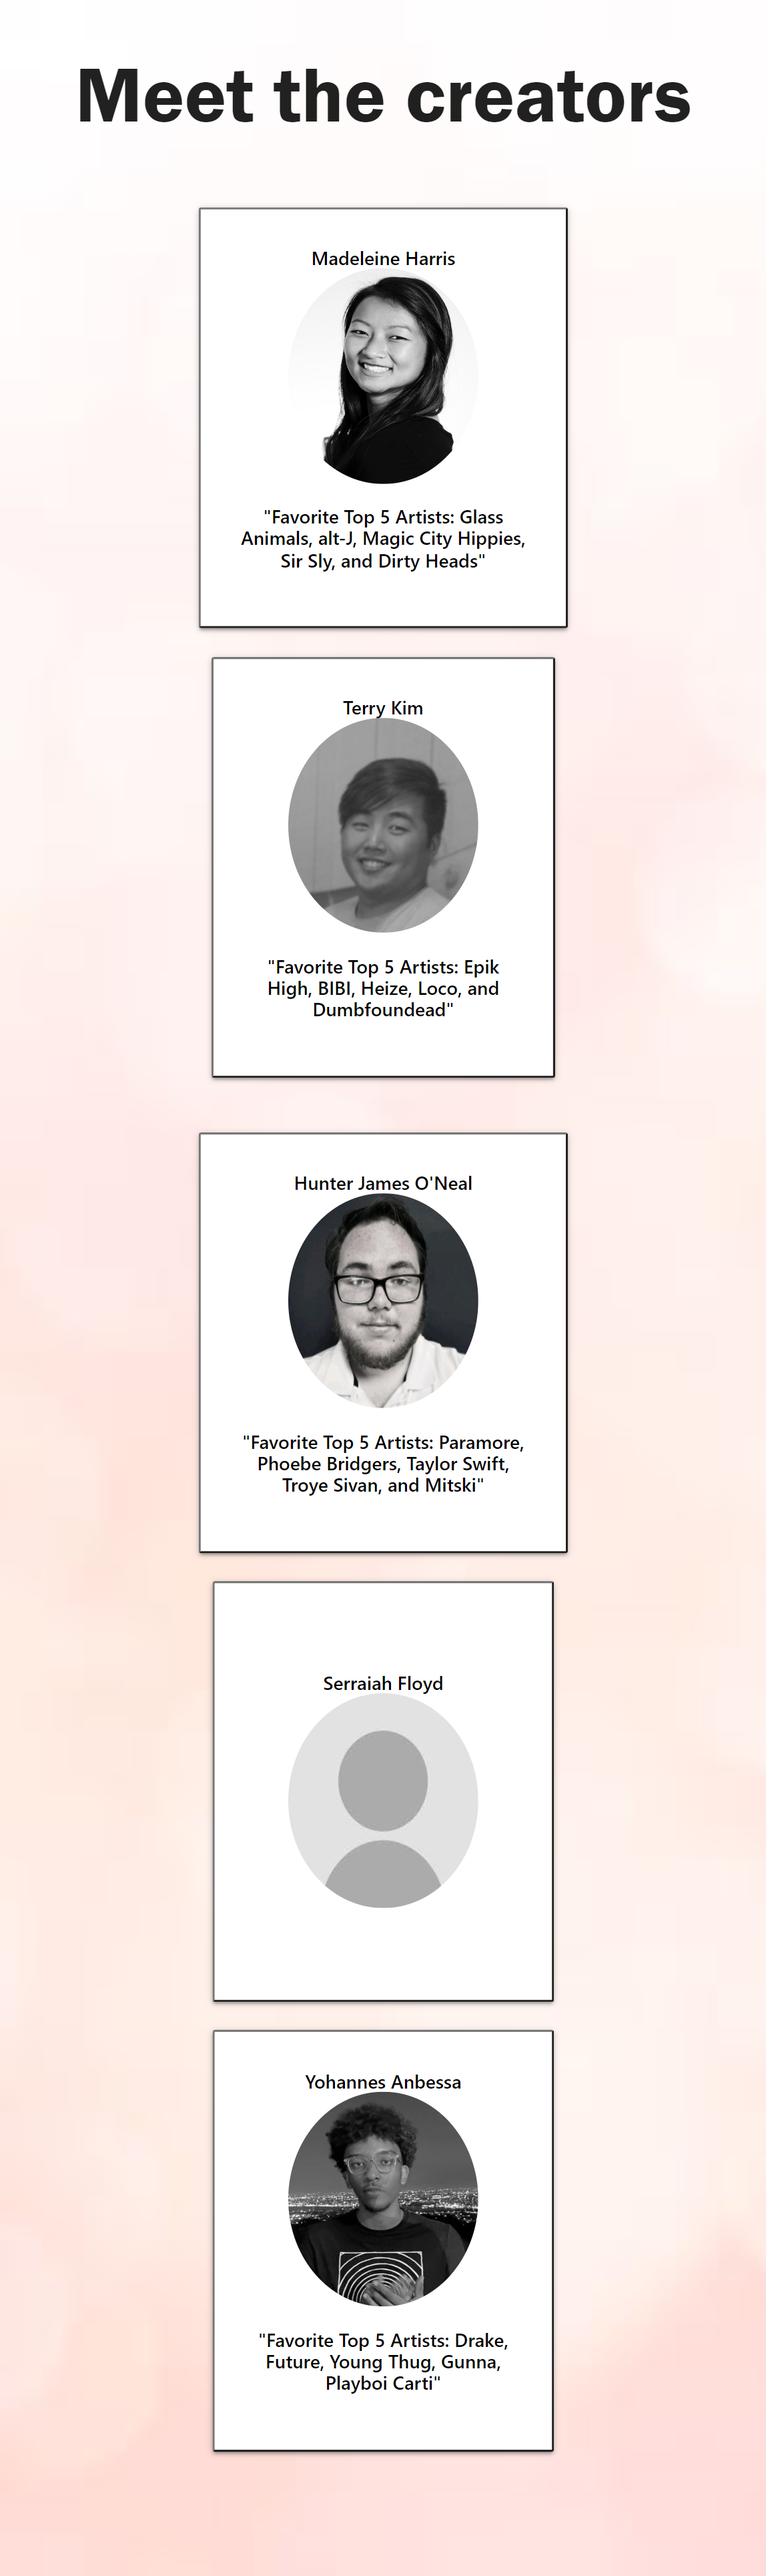
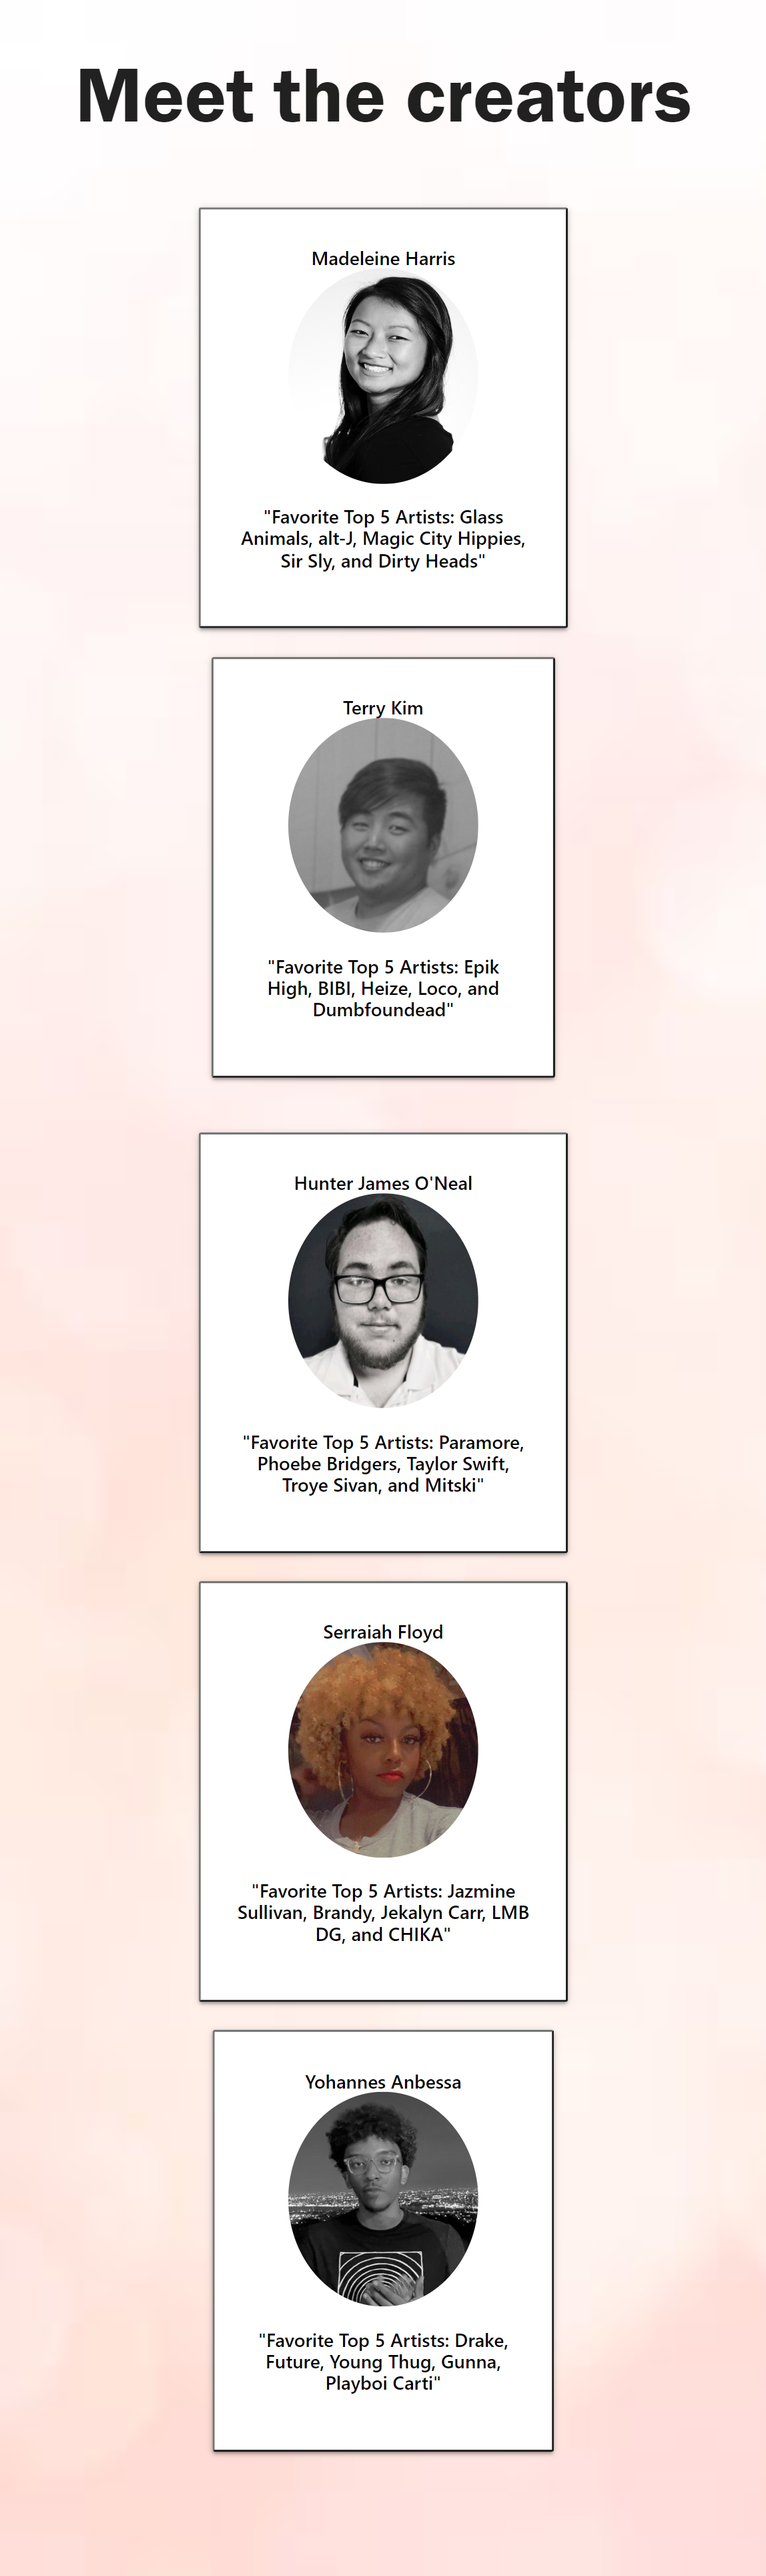
about us: added Serraiah's photo and favorite artists; updated screenshots for readme

Changed region(s): [[0.3354, 0.6221, 0.6707, 0.7465], [0.2439, 0.591, 0.3049, 0.7776], [0.7012, 0.6221, 0.7622, 0.7776]]

diff --git a/assets/githubindex.html b/assets/githubindex.html
@@ -65,8 +65,8 @@
               <span class="yalink"></span>
               <span class="black-text">Serraiah Floyd</span>
               <div class="center-align"></div>
-              <img src="../assets/images/download.jpg" class="circle">
-              <!-- <p>"Top 5 Artists: "</p> -->
+              <img src="../assets/images/Serraiah.jpg" class="circle">
+              <p>"Favorite Top 5 Artists: Jazmine Sullivan, Brandy, Jekalyn Carr, LMB DG, and CHIKA"</p>
             </div>
           </button>
         </div>

diff --git a/README.md b/README.md
@@ -64,7 +64,7 @@ Below are screenshots of the deployed application:
 ![MTHSY Music! Screenshot 2 Artist Search](./assets/images/mthsy_music_final_screenshot2.JPG)
 ![MTHSY Music! Screenshot 3 Song Title Search](./assets/images/mthsy_music_final_screenshot3.JPG)
 ![MTHSY Music! Screenshot 4 Search History](./assets/images/mthsy_music_final_screenshot4.JPG)
-![MTHSY Music! Screenshot 5 About Us](./assets/images/mthsy_music_final_screenshot5.JPG)
+![MTHSY Music! Screenshot 5 About Us](./assets/images/mthsy_music_final_screenshot5.png)
 ![MTHSY Music! Screenshot 6 Artist Search Mobile Version](./assets/images/mthsy_music_final_screenshot6.JPG)
 ![MTHSY Music! Screenshot 7 About Us Mobile Version](./assets/images/mthsy_music_final_screenshot7.png)
 
